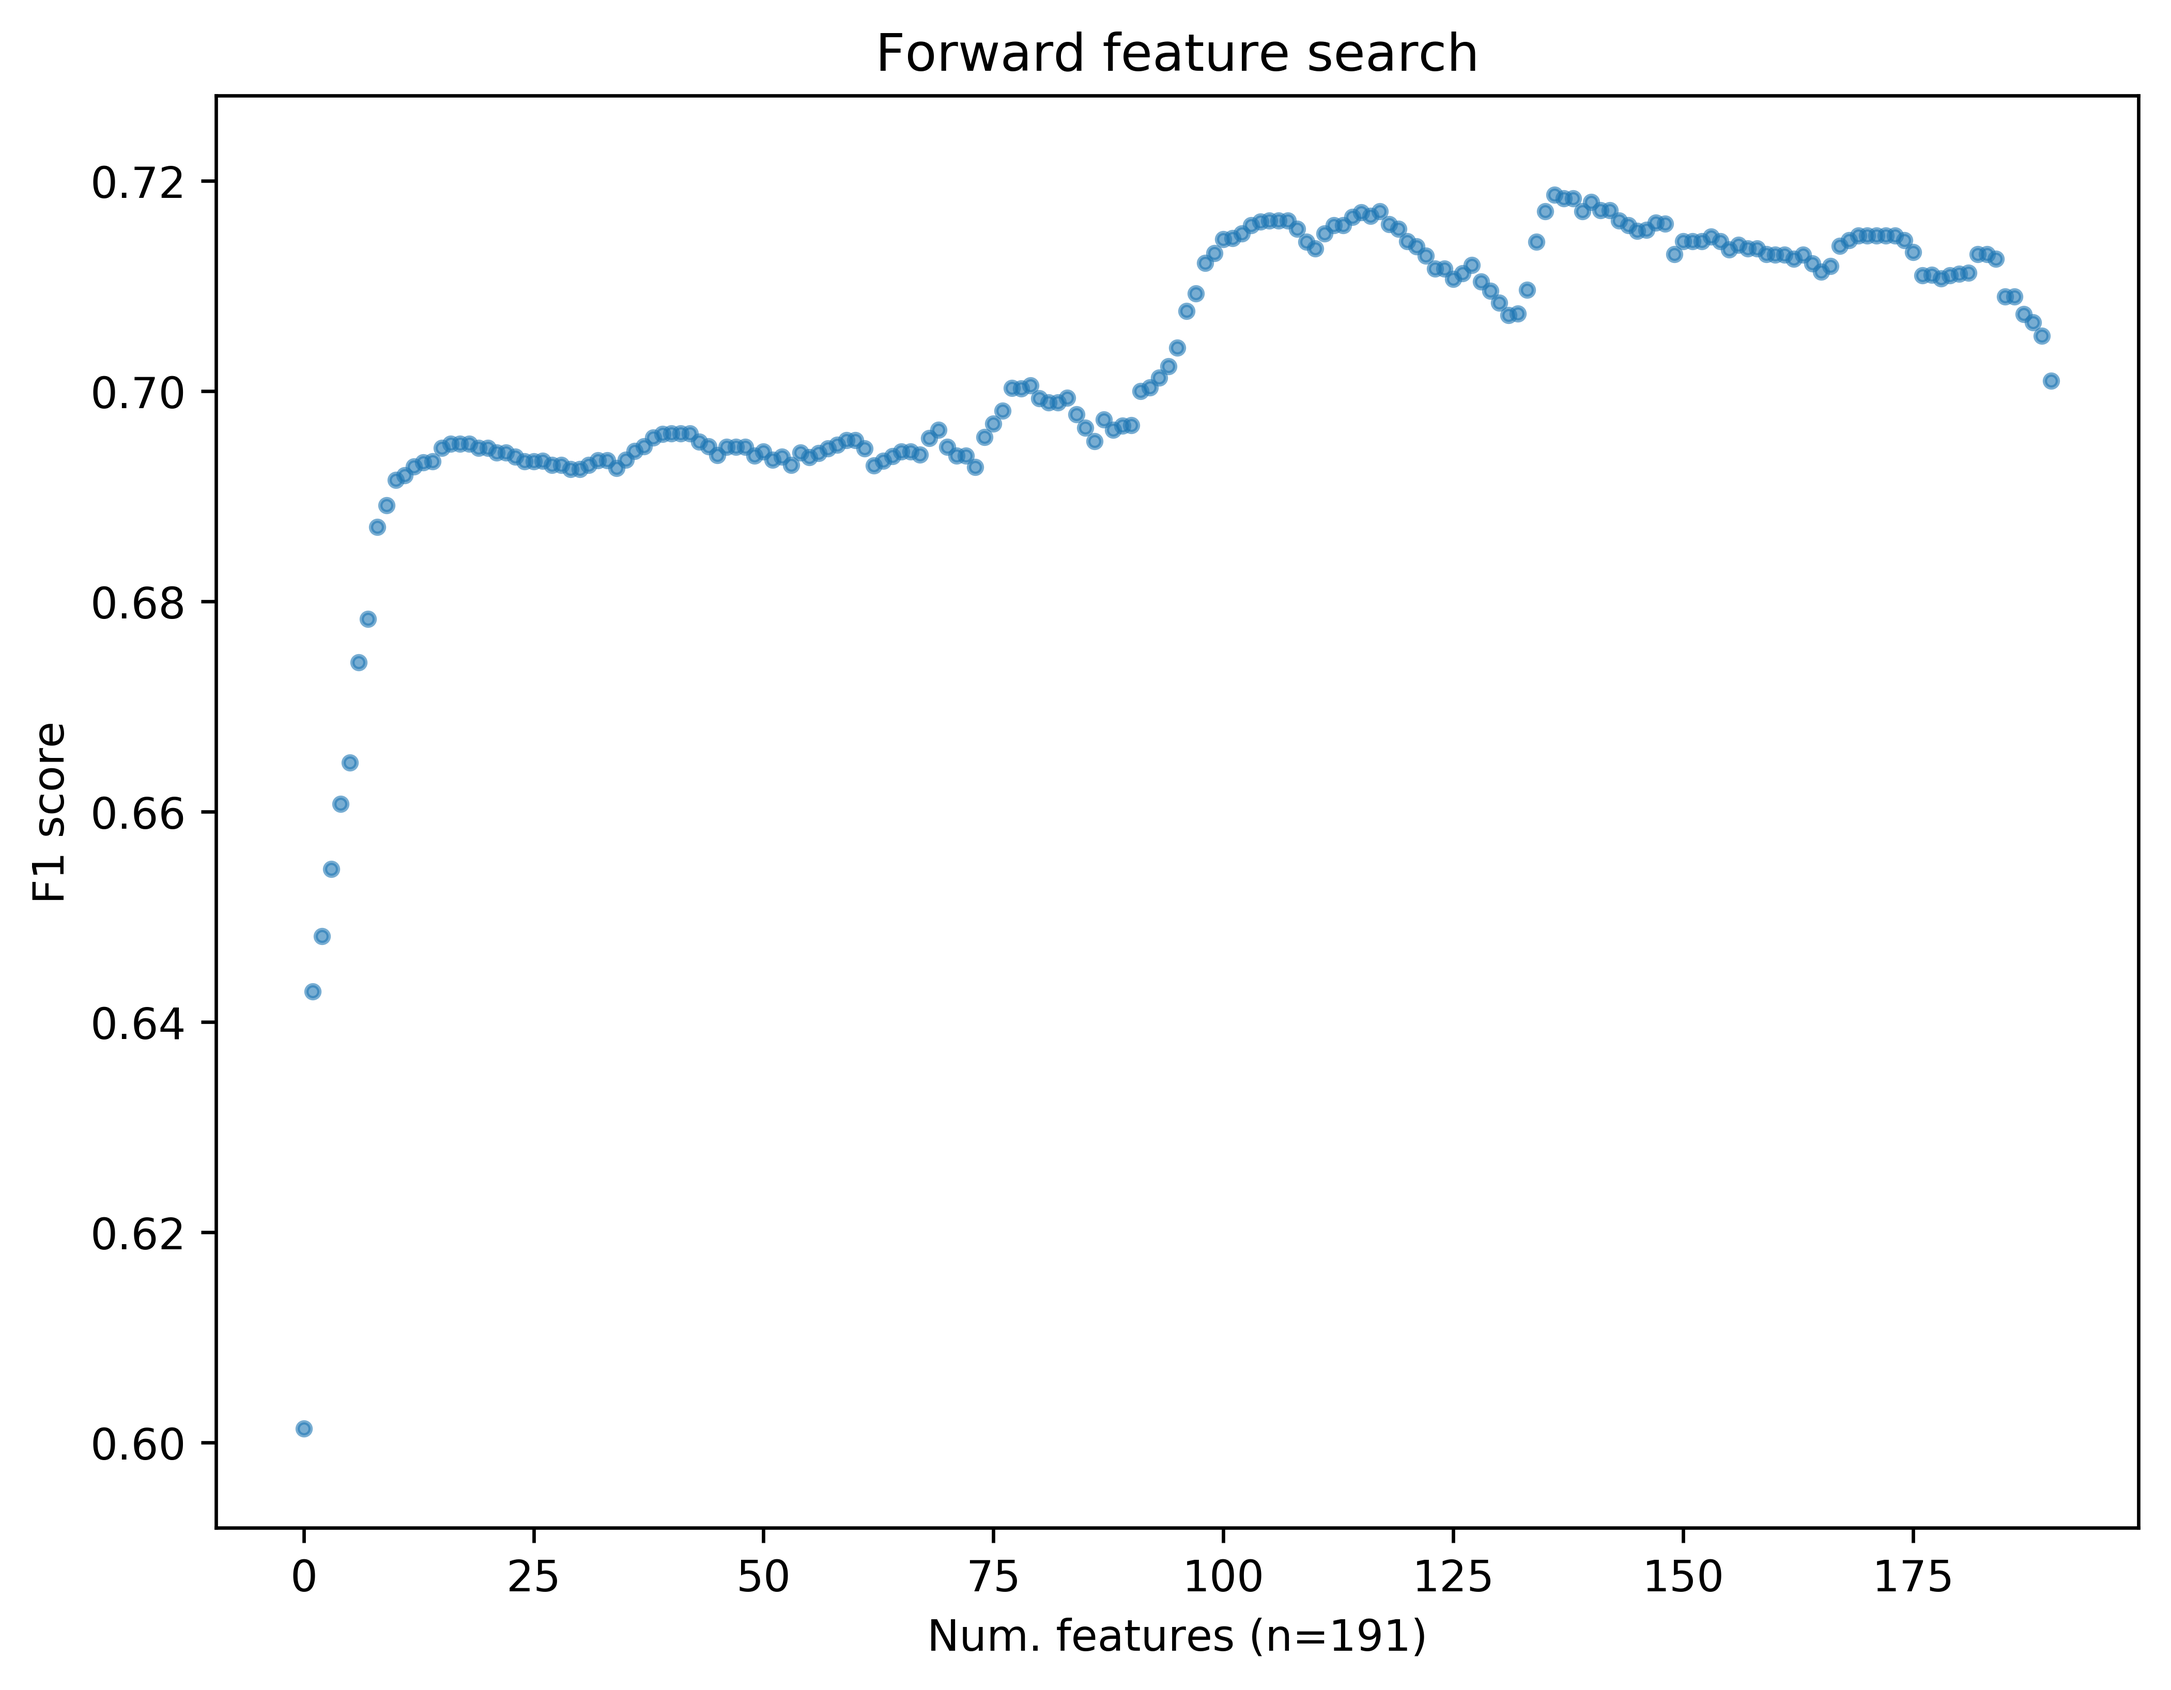
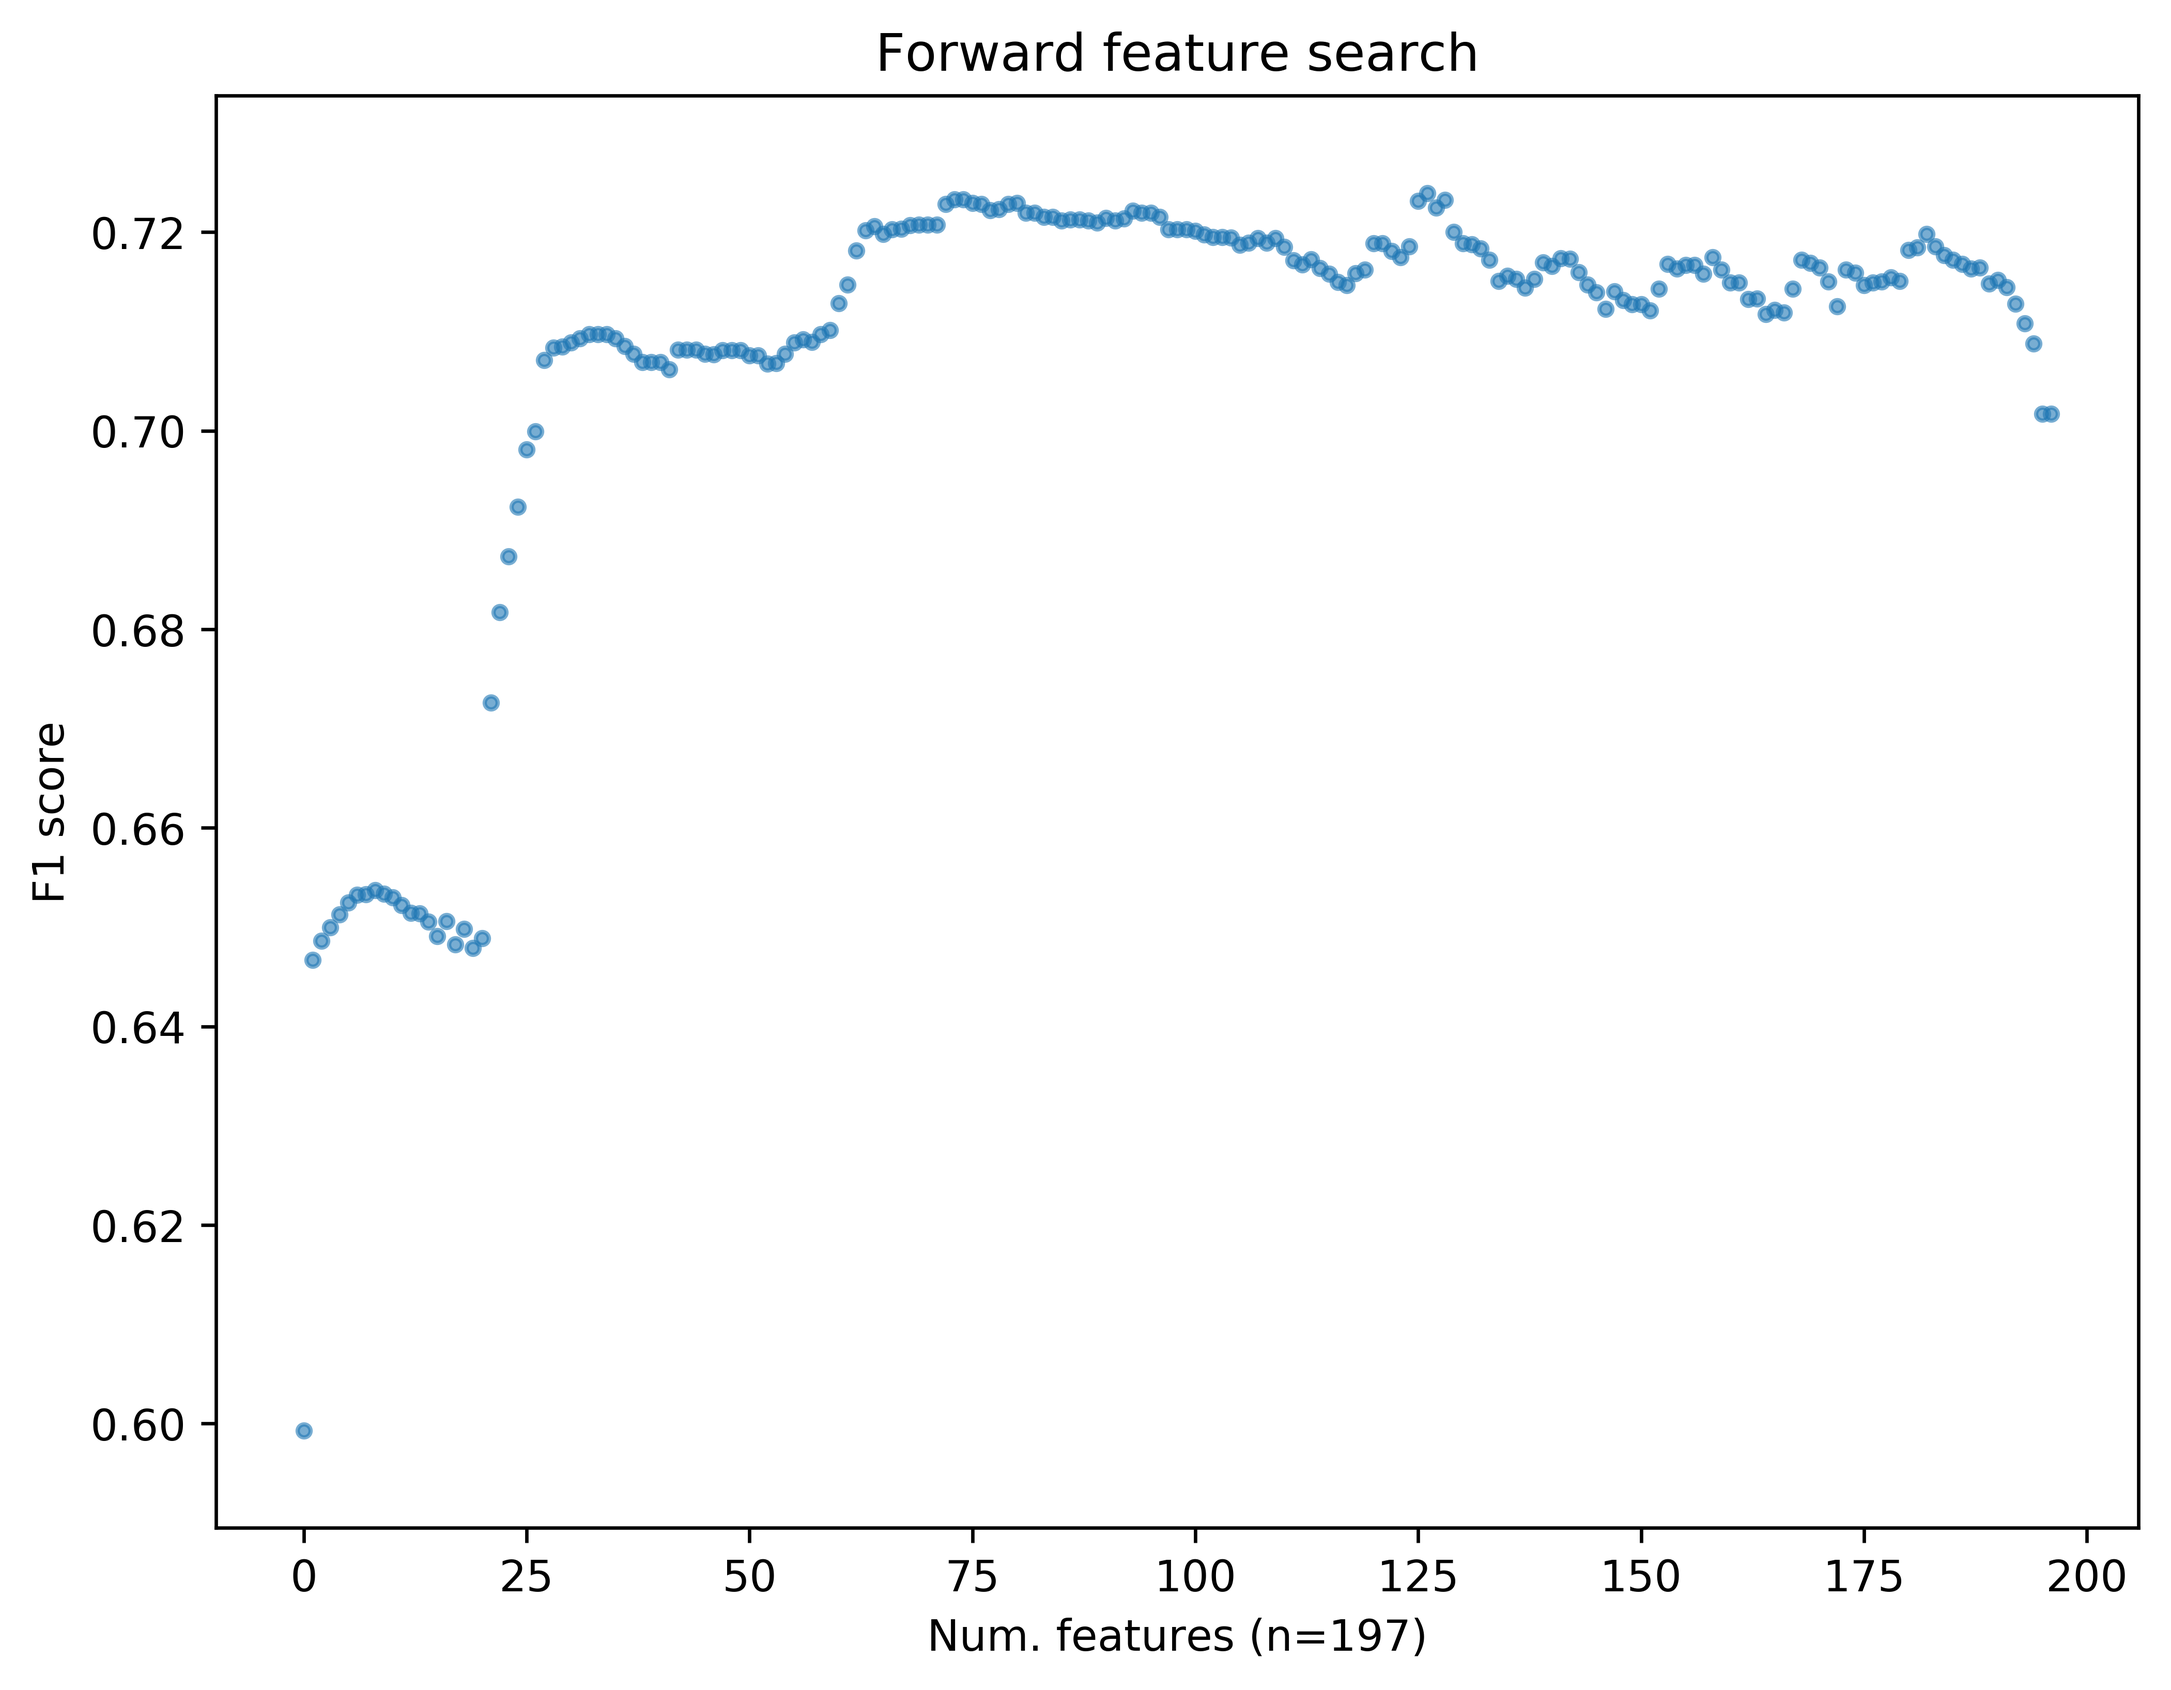
Add updated forward search plots

diff --git a/heartbreaker/plotting.py b/heartbreaker/plotting.py
@@ -26,7 +26,7 @@ def histogram(values, xlabel, title, fname, nbins=40):
 
     plt.savefig(fname, bbox_inches='tight', dpi=PLOTS_DPI)
 
-def plot_forward_search(source=os.path.join(os.path.dirname(os.path.dirname(__file__)), "results/forward_search_191_logreg.csv"), plot_fname=os.path.join(PLOTS_DIR, "forward_search_plot.png")):
+def plot_forward_search(source=os.path.join(os.path.dirname(os.path.dirname(__file__)), "results/forward_search_197_logreg.csv"), plot_fname=os.path.join(PLOTS_DIR, "forward_search_plot.png")):
     """Plots the results of forward search"""
     results = pd.read_csv(source, index_col=0)
     fig, ax = plt.subplots()
